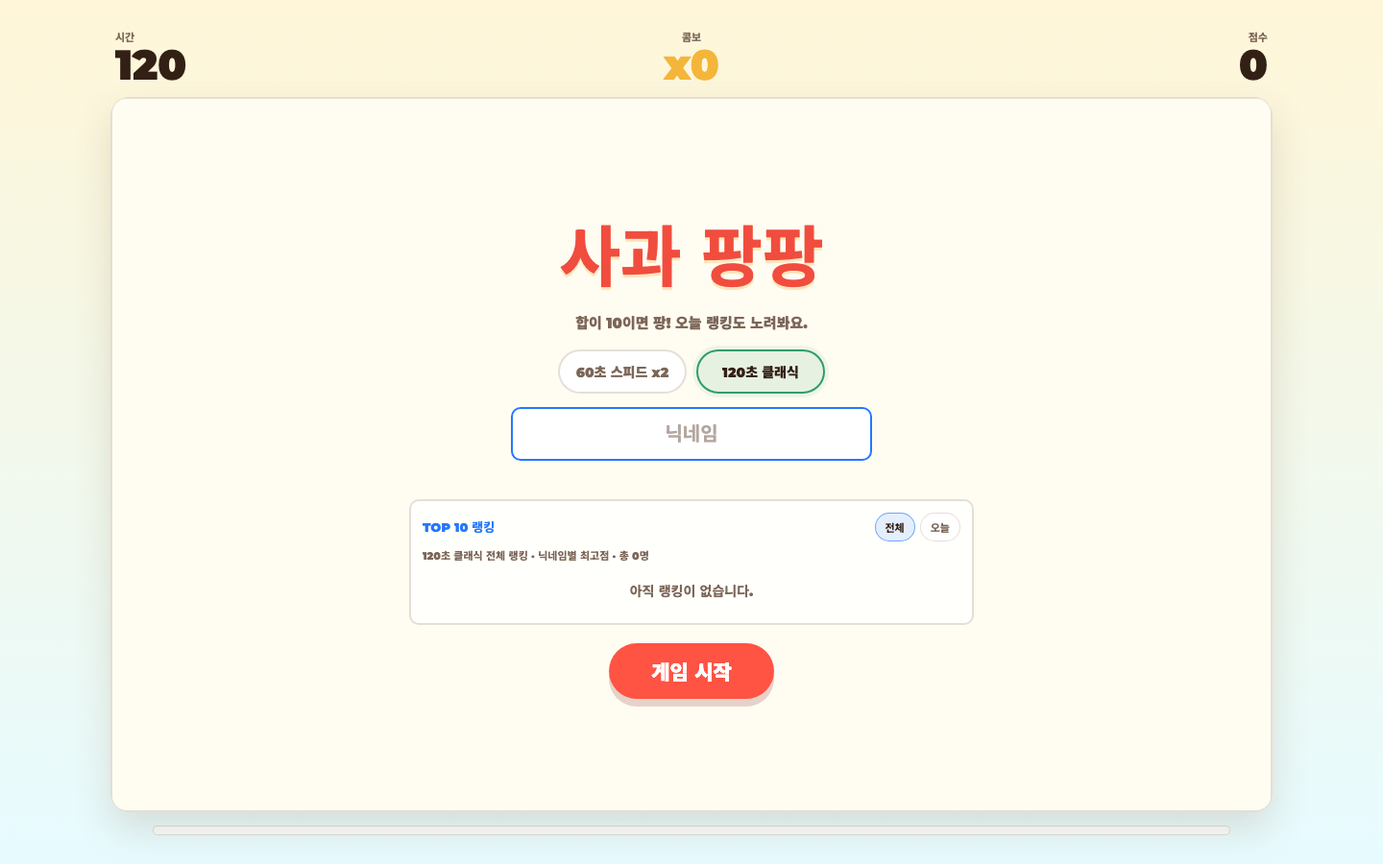
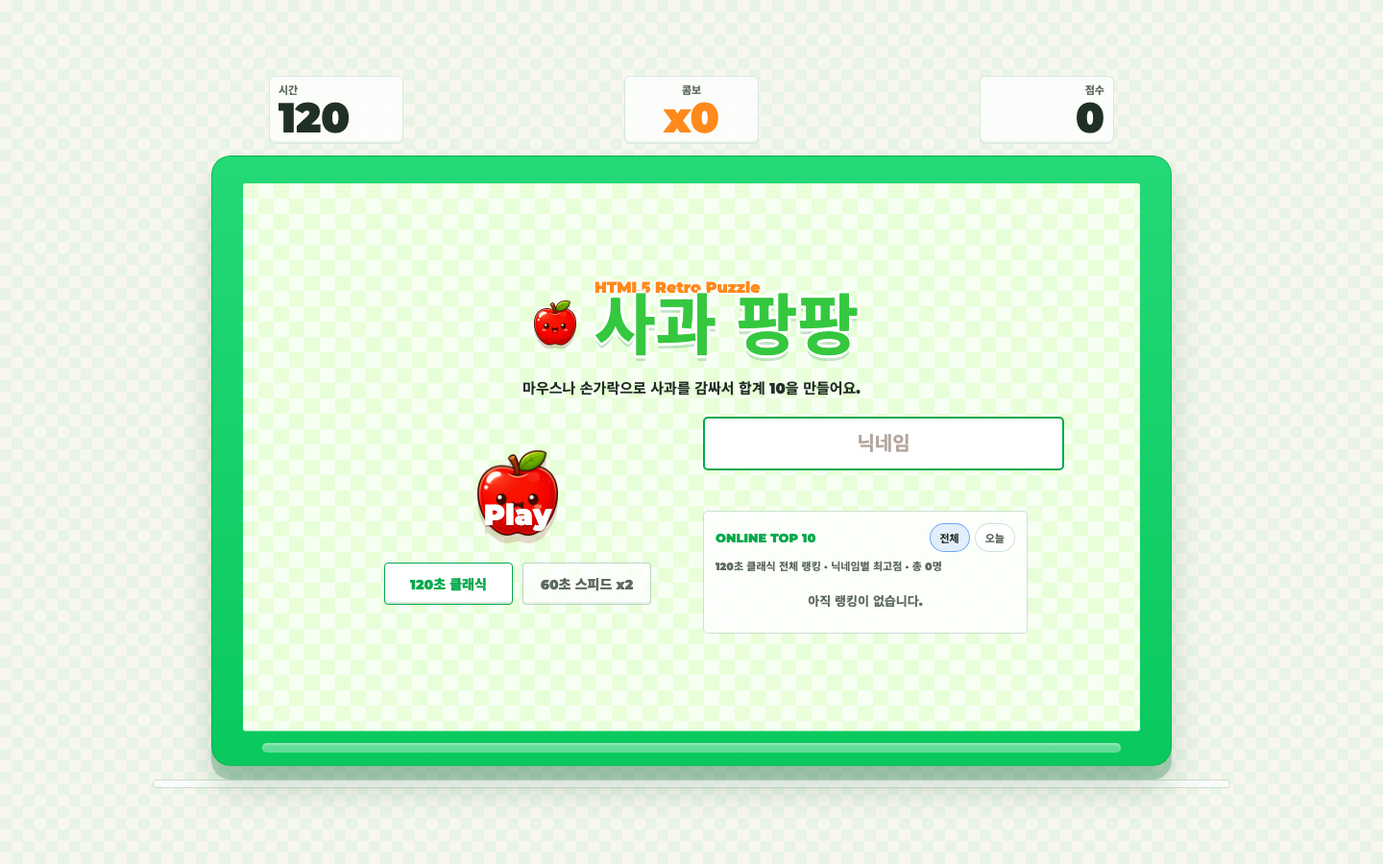
refactor: tune UI toward retro fruit box style

diff --git a/index.html b/index.html
@@ -12,24 +12,37 @@
         @import url('https://fonts.googleapis.com/css2?family=Montserrat:wght@900&family=Noto+Sans+KR:wght@700;900&display=swap');
 
         :root {
-            --bg: #fff6d8;
-            --ink: #332015;
-            --muted: #7c6658;
-            --panel: rgba(255, 252, 241, 0.88);
-            --apple: #f04d3f;
-            --leaf: #2f9d67;
-            --accent: #2477ff;
-            --gold: #f4b63a;
-            --line: rgba(94, 57, 24, 0.16);
+            --bg: #f7f7ef;
+            --frame: #09c95d;
+            --frame-dark: #05a94d;
+            --frame-light: #3ee781;
+            --board: #efffe6;
+            --board-alt: #d8f7c7;
+            --ink: #203024;
+            --muted: #5d6b5f;
+            --apple: #ff3f1f;
+            --apple-dark: #c92b16;
+            --leaf: #1fa84f;
+            --accent: #ff8a1c;
+            --gold: #ffd744;
+            --line: rgba(5, 106, 42, 0.2);
+            --shadow: 0 14px 0 rgba(0, 111, 47, 0.25), 0 24px 34px rgba(13, 74, 31, 0.18);
         }
         body {
             margin: 0; background: var(--bg); color: var(--ink);
             font-family: 'Montserrat', 'Noto Sans KR', sans-serif;
             display: flex; align-items: center; justify-content: center;
             min-height: 100svh; width: 100vw; overflow: hidden; user-select: none; touch-action: manipulation;
-            background: linear-gradient(180deg, #fff6d8 0%, #e7fbff 100%);
+            background:
+                linear-gradient(45deg, rgba(9,201,93,0.06) 25%, transparent 25%),
+                linear-gradient(-45deg, rgba(9,201,93,0.06) 25%, transparent 25%),
+                linear-gradient(45deg, transparent 75%, rgba(9,201,93,0.06) 75%),
+                linear-gradient(-45deg, transparent 75%, rgba(9,201,93,0.06) 75%),
+                var(--bg);
+            background-position: 0 0, 0 12px, 12px -12px, -12px 0;
+            background-size: 24px 24px;
         }
-        body.fevering { background: linear-gradient(180deg, #fff0b8 0%, #ffdf91 100%); }
+        body.fevering { background-color: #fff5c4; }
 
         /* 휴대폰 세로 화면에서는 가로 모드 전환을 안내한다. */
         #rotate-notice {
@@ -46,44 +59,79 @@
         .rotate-copy { color: var(--muted); font-size: 13px; line-height: 1.5; margin: 0; }
         @keyframes rotate { 0%, 100% { transform: rotate(0deg); } 50% { transform: rotate(-90deg); } }
 
-        #game-container { position: relative; display: flex; flex-direction: column; align-items: center; width: min(96vw, 1280px); padding: 12px 0; }
+        #game-container { position: relative; display: flex; flex-direction: column; align-items: center; width: min(96vw, 980px); padding: 12px 0; }
 
         /* UI */
-        #header { width: 100%; display: flex; justify-content: space-between; align-items: flex-end; margin-bottom: 10px; }
-        .stat { display: flex; flex-direction: column; min-width: 90px; }
+        #header { width: min(100%, 900px); display: flex; justify-content: space-between; align-items: flex-end; margin-bottom: 8px; padding: 0 10px; box-sizing: border-box; }
+        .stat { display: flex; flex-direction: column; min-width: 90px; background: rgba(255,255,255,0.78); border: 1px solid rgba(5,106,42,0.14); border-radius: 6px; padding: 5px 9px; box-shadow: inset 0 -2px 0 rgba(5,106,42,0.08); }
         .stat.center { align-items: center; }
         .stat.right { align-items: flex-end; }
-        .stat-label { font-size: 10px; color: var(--muted); letter-spacing: 0; }
-        .stat-value { font-size: clamp(24px, 4vw, 34px); font-weight: 900; line-height: 1; }
-        #v-combo { color: var(--gold); }
+        .stat-label { font-size: 9px; color: var(--muted); letter-spacing: 0; }
+        .stat-value { font-size: clamp(22px, 4vw, 32px); font-weight: 900; line-height: 1; color: var(--ink); }
+        #v-combo { color: var(--accent); }
 
-        #stage-wrap { position: relative; background: #fffdf6; border-radius: 18px; padding: 5px; border: 2px solid var(--line); box-shadow: 0 18px 40px rgba(104, 72, 28, 0.16); transition: border-color 0.2s, box-shadow 0.2s; }
-        #stage-wrap.fevering { border-color: rgba(244,182,58,0.88); box-shadow: 0 0 0 5px rgba(244,182,58,0.16), 0 18px 40px rgba(104,72,28,0.16); }
+        #stage-wrap {
+            --stage-pad-top: 28px;
+            --stage-pad-x: 32px;
+            --stage-pad-bottom: 36px;
+            position: relative; background: linear-gradient(#24d977, var(--frame));
+            border-radius: 22px; padding: var(--stage-pad-top) var(--stage-pad-x) var(--stage-pad-bottom);
+            border: 1px solid rgba(0,95,38,0.24); box-shadow: var(--shadow);
+            transition: filter 0.2s, box-shadow 0.2s; overflow: hidden;
+        }
+        #stage-wrap::after {
+            content: ""; position: absolute; left: 52px; right: 52px; bottom: 13px; height: 10px;
+            border-radius: 999px; background: rgba(255,255,255,0.36); box-shadow: inset 0 2px 2px rgba(255,255,255,0.35);
+            pointer-events: none;
+        }
+        #stage-wrap.fevering { filter: saturate(1.15); box-shadow: 0 0 0 5px rgba(255,215,68,0.45), var(--shadow); }
         #stage-wrap.hit { animation: hit-pulse 0.28s ease-out; }
         #stage-wrap.miss { animation: miss-shake 0.18s ease-out; }
-        canvas { display: block; border-radius: 12px; cursor: crosshair; width: min(100%, 1120px); max-width: 100%; max-height: min(76svh, 720px); height: auto; touch-action: none; }
+        canvas { display: block; border-radius: 3px; cursor: crosshair; width: min(100%, 900px); max-width: 100%; max-height: min(73svh, 620px); height: auto; touch-action: none; box-shadow: inset 0 0 0 2px rgba(0,120,50,0.18), 0 1px 0 rgba(255,255,255,0.45); }
         @keyframes hit-pulse { 0% { transform: scale(1); } 45% { transform: scale(1.008); } 100% { transform: scale(1); } }
         @keyframes miss-shake { 0%, 100% { transform: translateX(0); } 30% { transform: translateX(-4px); } 65% { transform: translateX(4px); } }
 
         /* 오버레이 */
         .overlay {
-            position: absolute; top: 0; left: 0; width: 100%; height: 100%;
-            background: rgba(255, 252, 241, 0.95); backdrop-filter: blur(18px);
+            position: absolute; top: var(--stage-pad-top); left: var(--stage-pad-x); right: var(--stage-pad-x); bottom: var(--stage-pad-bottom); width: auto; height: auto;
+            background:
+                linear-gradient(45deg, rgba(255,255,255,0.64) 25%, transparent 25%),
+                linear-gradient(-45deg, rgba(255,255,255,0.64) 25%, transparent 25%),
+                linear-gradient(45deg, transparent 75%, rgba(255,255,255,0.64) 75%),
+                linear-gradient(-45deg, transparent 75%, rgba(255,255,255,0.64) 75%),
+                rgba(232, 255, 217, 0.96);
+            background-position: 0 0, 0 16px, 16px -16px, -16px 0;
+            background-size: 32px 32px;
             display: flex; flex-direction: column; align-items: center; justify-content: center;
-            z-index: 100; border-radius: 15px; text-align: center; padding: 18px; box-sizing: border-box;
+            z-index: 100; border-radius: 3px; text-align: center; padding: 32px; box-sizing: border-box;
         }
         .hidden { display: none !important; }
 
-        h1 { font-size: clamp(34px, 6vw, 58px); margin: 0 0 10px 0; color: var(--apple); text-shadow: 0 3px 0 rgba(255, 190, 83, 0.35); }
-        .tagline { margin: 0 0 18px; color: var(--muted); font-size: 13px; font-weight: 900; }
-        .mode-picker { display: flex; gap: 8px; margin: 0 0 12px; }
-        .mode-btn { min-width: 112px; padding: 9px 12px; border: 2px solid var(--line); border-radius: 999px; background: #fff; color: var(--muted); font-family: inherit; font-weight: 900; cursor: pointer; }
-        .mode-btn.active { border-color: var(--leaf); background: rgba(47,157,103,0.12); color: var(--ink); box-shadow: 0 0 0 4px rgba(47,157,103,0.08); }
-        input { width: min(72vw, 260px); background: #fff; border: 2px solid var(--accent); color: var(--ink); padding: 12px 14px; border-radius: 10px; font-size: 18px; text-align: center; outline: none; margin-bottom: 12px; font-family: inherit; text-transform: uppercase; }
+        .start-layout { width: min(100%, 700px); display: grid; grid-template-columns: minmax(190px, 1fr) minmax(220px, 1fr); align-items: center; gap: 24px; }
+        .brand { display: inline-grid; grid-template-columns: 64px auto; align-items: center; gap: 9px; margin-bottom: 12px; }
+        .brand img { width: 64px; height: 64px; object-fit: contain; filter: drop-shadow(0 4px 0 rgba(88,32,12,0.18)); }
+        h1 { font-size: clamp(42px, 6vw, 72px); margin: 0; color: #35c83f; line-height: 0.9; text-shadow: -3px 0 #fff, 0 3px #fff, 3px 0 #fff, 0 -3px #fff, 0 6px 0 rgba(0,120,46,0.2); }
+        .brand-kicker { display: block; color: var(--accent); font-size: 16px; line-height: 1; text-align: left; text-shadow: -2px 0 #fff, 0 2px #fff, 2px 0 #fff, 0 -2px #fff; }
+        .tagline { margin: 0 0 12px; color: var(--ink); font-size: 13px; font-weight: 700; line-height: 1.45; }
+        .start-actions { display: flex; flex-direction: column; align-items: center; gap: 10px; }
+        .apple-play {
+            width: 150px; height: 122px; border: 0; padding: 0; margin: 4px 0 0; background: transparent;
+            position: relative; cursor: pointer; font-family: inherit; color: #fff; font-weight: 900; font-size: 30px;
+            filter: drop-shadow(0 8px 0 rgba(126,43,22,0.18));
+        }
+        .apple-play img { position: absolute; inset: 0; width: 100%; height: 100%; object-fit: contain; }
+        .apple-play span { position: relative; z-index: 1; display: block; padding-top: 43px; text-shadow: 0 2px 0 rgba(90,20,8,0.28); }
+        .apple-play:hover { transform: translateY(-2px); }
+        .apple-play:active { transform: translateY(3px); filter: drop-shadow(0 4px 0 rgba(126,43,22,0.18)); }
+        .mode-picker { display: flex; flex-wrap: wrap; justify-content: center; gap: 7px; margin: 0; }
+        .mode-btn { min-width: 112px; padding: 7px 11px; border: 1px solid rgba(5,106,42,0.28); border-radius: 4px; background: rgba(255,255,255,0.75); color: var(--muted); font-family: inherit; font-weight: 900; cursor: pointer; box-shadow: inset 0 -2px 0 rgba(5,106,42,0.08); }
+        .mode-btn.active { border-color: var(--frame-dark); background: #fff; color: var(--frame-dark); box-shadow: inset 0 -2px 0 rgba(5,106,42,0.16); }
+        .settings-row { display: flex; flex-direction: column; align-items: stretch; gap: 8px; }
+        input { width: min(70vw, 240px); background: #fff; border: 2px solid var(--frame-dark); color: var(--ink); padding: 10px 12px; border-radius: 5px; font-size: 17px; text-align: center; outline: none; font-family: inherit; text-transform: uppercase; box-shadow: inset 0 2px 0 rgba(0,0,0,0.04); }
         input::placeholder { color: rgba(124,102,88,0.58); }
-        input:focus { box-shadow: 0 0 0 4px rgba(36,119,255,0.14); }
+        input:focus { box-shadow: 0 0 0 3px rgba(255,138,28,0.24); border-color: var(--accent); }
         input, button, #rank-container, .overlay { touch-action: manipulation; }
-        .nick-help, .save-state, .result-detail { color: var(--muted); font-size: 12px; min-height: 18px; margin-bottom: 10px; }
+        .nick-help, .save-state, .result-detail { color: var(--muted); font-size: 12px; min-height: 18px; margin-bottom: 8px; }
         .result-detail { color: var(--ink); }
         .challenge-banner { width: min(86%, 430px); margin: 0 0 12px; padding: 10px 12px; border-radius: 10px; background: rgba(244,182,58,0.18); border: 1px solid rgba(244,182,58,0.46); color: var(--ink); font-size: 12px; line-height: 1.45; }
         .challenge-banner strong { color: var(--gold); }
@@ -95,14 +143,14 @@
         .result-chip span { display: block; color: var(--muted); font-size: 9px; }
         .result-chip strong { display: block; margin-top: 3px; font-size: 14px; color: var(--ink); }
         
-        .btn { padding: 12px 35px; font-size: 18px; font-weight: 900; background: var(--apple); color: white; border: none; border-radius: 50px; cursor: pointer; margin: 5px; font-family: inherit; transition: transform 0.15s, filter 0.15s; box-shadow: 0 8px 0 rgba(122, 39, 28, 0.2); }
+        .btn { padding: 10px 26px; font-size: 17px; font-weight: 900; background: linear-gradient(#ff6a45, var(--apple)); color: white; border: 1px solid rgba(122,39,28,0.25); border-radius: 5px; cursor: pointer; margin: 4px; font-family: inherit; transition: transform 0.15s, filter 0.15s; box-shadow: 0 5px 0 rgba(122, 39, 28, 0.24); }
         .btn:hover { transform: translateY(-1px); filter: brightness(1.08); }
-        .btn.share { background: var(--leaf); color: #fff; box-shadow-color: rgba(34, 104, 67, 0.22); }
+        .btn.share { background: linear-gradient(#38d976, var(--leaf)); color: #fff; box-shadow-color: rgba(34, 104, 67, 0.22); }
 
         /* 랭킹 리스트 */
-        #rank-container { width: min(86%, 430px); max-height: min(34svh, 240px); overflow-y: auto; background: rgba(255,255,255,0.72); border: 2px solid var(--line); border-radius: 10px; padding: 10px; margin-bottom: 15px; font-size: 14px; }
+        #rank-container { width: 100%; max-height: min(34svh, 214px); overflow-y: auto; background: rgba(255,255,255,0.82); border: 1px solid var(--line); border-radius: 5px; padding: 9px; font-size: 13px; box-sizing: border-box; }
         .rank-head { display: flex; align-items: center; justify-content: space-between; gap: 8px; margin-bottom: 8px; }
-        .rank-title { color: var(--accent); font-size: 12px; }
+        .rank-title { color: var(--frame-dark); font-size: 12px; }
         .rank-tabs { display: flex; gap: 5px; }
         .rank-tab { border: 1px solid var(--line); border-radius: 999px; background: #fff; color: var(--muted); padding: 5px 9px; font: inherit; font-size: 10px; cursor: pointer; }
         .rank-tab.active { background: rgba(36,119,255,0.12); border-color: rgba(36,119,255,0.62); color: var(--ink); }
@@ -117,27 +165,27 @@
         #toast { position: fixed; left: 50%; bottom: 24px; transform: translate(-50%, 18px); z-index: 10000; min-width: min(88vw, 320px); max-width: 90vw; padding: 12px 16px; border-radius: 999px; background: rgba(47, 157, 103, 0.94); color: #fff; font-size: 13px; font-weight: 900; text-align: center; opacity: 0; pointer-events: none; transition: opacity 0.18s, transform 0.18s; box-shadow: 0 14px 34px rgba(34,104,67,0.22); }
         #toast.show { opacity: 1; transform: translate(-50%, 0); }
 
-        #fever-bar { width: 90%; height: 8px; background: rgba(255,255,255,0.72); border: 1px solid var(--line); border-radius: 10px; margin-top: 15px; overflow: hidden; }
-        #fever-fill { width: 0%; height: 100%; background: linear-gradient(90deg, #f04d3f, #f4b63a, #2f9d67); transition: width 0.3s; }
+        #fever-bar { width: min(90%, 850px); height: 7px; background: rgba(255,255,255,0.7); border: 1px solid var(--line); border-radius: 999px; margin-top: 20px; overflow: hidden; }
+        #fever-fill { width: 0%; height: 100%; background: linear-gradient(90deg, #ff3f1f, #ffd744, #09c95d); transition: width 0.3s; }
         @media (min-width: 1100px) and (pointer: fine) {
             body { align-items: center; }
             #game-container { width: min(94vw, 1320px); padding: 16px 0; }
-            #header { width: min(100%, 1200px); margin-bottom: 12px; }
+            #header { width: min(100%, 900px); margin-bottom: 12px; }
             .stat { min-width: 120px; }
             .stat-label { font-size: 11px; }
             .stat-value { font-size: clamp(34px, 3vw, 46px); }
-            #stage-wrap { padding: 6px; border-radius: 20px; }
+            #stage-wrap { border-radius: 20px; }
             .overlay { padding: 32px; }
             h1 { font-size: clamp(54px, 4.8vw, 78px); margin-bottom: 12px; }
             .tagline { font-size: 15px; margin-bottom: 18px; }
             .mode-picker { gap: 10px; margin-bottom: 14px; }
             .mode-btn { min-width: 134px; padding: 11px 16px; font-size: 14px; }
             input { width: min(32vw, 340px); padding: 14px 16px; font-size: 20px; }
-            #rank-container { width: min(62%, 560px); max-height: min(30svh, 260px); padding: 12px; }
+            #rank-container { width: 100%; max-height: min(30svh, 260px); padding: 12px; }
             .rank-title { font-size: 13px; }
             .rank-tab { font-size: 11px; padding: 6px 10px; }
             .rank-meta { font-size: 11px; }
-            .btn { padding: 14px 44px; font-size: 21px; }
+            .btn { padding: 12px 34px; font-size: 19px; }
             .result-card { width: min(60%, 580px); padding: 22px; }
             #fever-bar { width: min(90vw, 1120px); margin-top: 14px; }
         }
@@ -148,11 +196,17 @@
             .stat { min-width: 64px; }
             .stat-label { font-size: 8px; }
             .stat-value { font-size: clamp(24px, 9dvh, 42px); }
-            #stage-wrap { padding: 3px; border-radius: 12px; }
+            #stage-wrap { --stage-pad-top: 4px; --stage-pad-x: 4px; --stage-pad-bottom: 18px; border-radius: 12px; }
             canvas { max-width: none; max-height: none; border-radius: 9px; }
             #fever-bar { width: min(94vw, 934px); height: 6px; margin-top: 5px; }
             .overlay { padding: 12px; }
             h1 { font-size: clamp(30px, 8dvh, 48px); }
+            .brand { grid-template-columns: 46px auto; margin-bottom: 8px; }
+            .brand img { width: 46px; height: 46px; }
+            .brand-kicker { font-size: 11px; }
+            .start-layout { grid-template-columns: 160px minmax(220px, 1fr); gap: 14px; }
+            .apple-play { width: 108px; height: 90px; font-size: 22px; }
+            .apple-play span { padding-top: 31px; }
             .tagline { margin-bottom: 10px; font-size: 11px; }
             .mode-picker { margin-bottom: 8px; }
             .mode-btn { min-width: 100px; padding: 8px 10px; font-size: 12px; }
@@ -173,6 +227,10 @@
             .stat { min-width: 70px; }
             .overlay { justify-content: flex-start; padding-top: 24px; overflow-y: auto; }
             h1 { font-size: 34px; }
+            .brand { grid-template-columns: 44px auto; }
+            .brand img { width: 44px; height: 44px; }
+            .brand-kicker { font-size: 10px; }
+            .start-layout { grid-template-columns: 1fr; gap: 12px; }
             #rank-container { width: 92%; }
         }
         @media (orientation: portrait) and (max-width: 720px) {
@@ -203,28 +261,45 @@
         <canvas id="stage"></canvas>
 
         <div id="screen-start" class="overlay">
-            <h1>사과 팡팡</h1>
-            <p class="tagline">합이 10이면 팡! 오늘 랭킹도 노려봐요.</p>
-            <div id="challenge-banner" class="challenge-banner hidden"></div>
-            <div class="mode-picker" aria-label="게임 모드">
-                <button type="button" id="mode-rush" class="mode-btn" onclick="Game.setMode('rush')">60초 스피드 x2</button>
-                <button type="button" id="mode-classic" class="mode-btn" onclick="Game.setMode('classic')">120초 클래식</button>
+            <div class="brand" aria-label="사과 팡팡">
+                <img src="assets/apple-mascot.png" alt="" aria-hidden="true">
+                <div>
+                    <span class="brand-kicker">HTML5 Retro Puzzle</span>
+                    <h1>사과 팡팡</h1>
+                </div>
             </div>
-            <input type="text" id="nick-input" placeholder="닉네임" maxlength="12" autocomplete="off" spellcheck="false">
-            <div id="nick-help" class="nick-help"></div>
-            <div id="rank-container">
-                <div class="rank-head">
-                    <div class="rank-title">TOP 10 랭킹</div>
-                    <div class="rank-tabs" aria-label="랭킹 탭">
-                        <button type="button" id="rank-all" class="rank-tab active" onclick="Game.setRankMode('all')">전체</button>
-                        <button type="button" id="rank-today" class="rank-tab" onclick="Game.setRankMode('today')">오늘</button>
+            <p class="tagline">마우스나 손가락으로 사과를 감싸서 합계 10을 만들어요.</p>
+            <div id="challenge-banner" class="challenge-banner hidden"></div>
+
+            <div class="start-layout">
+                <div class="start-actions">
+                    <button type="button" class="apple-play" onclick="Game.start()" aria-label="게임 시작">
+                        <img src="assets/apple-mascot.png" alt="" aria-hidden="true">
+                        <span>Play</span>
+                    </button>
+                    <div class="mode-picker" aria-label="게임 모드">
+                        <button type="button" id="mode-classic" class="mode-btn" onclick="Game.setMode('classic')">120초 클래식</button>
+                        <button type="button" id="mode-rush" class="mode-btn" onclick="Game.setMode('rush')">60초 스피드 x2</button>
                     </div>
                 </div>
-                <p id="rank-meta" class="rank-meta">닉네임별 최고점만 저장됩니다.</p>
-                <div id="my-rank" class="my-rank hidden"></div>
-                <div id="rank-list">로딩 중...</div>
+
+                <div class="settings-row">
+                    <input type="text" id="nick-input" placeholder="닉네임" maxlength="12" autocomplete="off" spellcheck="false">
+                    <div id="nick-help" class="nick-help"></div>
+                    <div id="rank-container">
+                        <div class="rank-head">
+                            <div class="rank-title">ONLINE TOP 10</div>
+                            <div class="rank-tabs" aria-label="랭킹 탭">
+                                <button type="button" id="rank-all" class="rank-tab active" onclick="Game.setRankMode('all')">전체</button>
+                                <button type="button" id="rank-today" class="rank-tab" onclick="Game.setRankMode('today')">오늘</button>
+                            </div>
+                        </div>
+                        <p id="rank-meta" class="rank-meta">닉네임별 최고점만 저장됩니다.</p>
+                        <div id="my-rank" class="my-rank hidden"></div>
+                        <div id="rank-list">로딩 중...</div>
+                    </div>
+                </div>
             </div>
-            <button class="btn" onclick="Game.start()">게임 시작</button>
         </div>
 
         <div id="screen-result" class="overlay hidden">
@@ -504,7 +579,7 @@ const Game = {
                 const headerH = header ? header.offsetHeight : 54;
                 const availableW = Math.max(760, Math.min(1220, viewport.width - 80));
                 const availableH = Math.max(460, viewport.height - headerH - 112);
-                const scale = Math.min(availableW / baseW, availableH / baseH, 1.28);
+                const scale = Math.min(availableW / baseW, availableH / baseH, 1);
                 this.canvas.style.width = `${Math.floor(baseW * scale)}px`;
                 this.canvas.style.maxHeight = "none";
                 return;
@@ -932,9 +1007,15 @@ const Game = {
         const boardW = COLS * CELL + PAD * 2;
         const boardH = ROWS * CELL + PAD * 2;
         this.ctx.save();
-        this.ctx.fillStyle = '#fffdf6';
+        this.ctx.fillStyle = '#efffe6';
         this.ctx.fillRect(0, 0, boardW, boardH);
-        this.ctx.strokeStyle = 'rgba(94, 57, 24, 0.08)';
+        for(let r = 0; r < ROWS; r++) {
+            for(let c = 0; c < COLS; c++) {
+                this.ctx.fillStyle = (r + c) % 2 ? '#efffe6' : '#d8f7c7';
+                this.ctx.fillRect(PAD + c * CELL, PAD + r * CELL, CELL, CELL);
+            }
+        }
+        this.ctx.strokeStyle = 'rgba(5, 106, 42, 0.18)';
         this.ctx.lineWidth = 1;
         for(let c = 0; c <= COLS; c++) {
             const x = PAD + c * CELL;
@@ -973,29 +1054,48 @@ const Game = {
                         this.ctx.shadowColor = '#f4b63a';
                         this.ctx.shadowBlur = 18;
                     }
+                    this.ctx.shadowColor = fevering ? '#f4b63a' : 'rgba(92,30,12,0.22)';
+                    this.ctx.shadowBlur = fevering ? 18 : 0;
+                    this.ctx.shadowOffsetY = fevering ? 0 : 3;
                     this.ctx.fillStyle = '#7a4b24';
                     this.ctx.fillRect(-2, -23, 4, 9);
                     this.ctx.fillStyle = '#2f9d67';
                     this.ctx.beginPath();
                     this.ctx.ellipse(8, -22, 8, 4, -0.65, 0, Math.PI * 2);
                     this.ctx.fill();
-                    this.ctx.fillStyle = fevering ? `hsl(${Date.now()/5 % 360}, 82%, 58%)` : '#f04d3f';
+                    const appleFill = this.ctx.createRadialGradient(-8, -10, 5, 3, 4, 22);
+                    appleFill.addColorStop(0, fevering ? '#ffe56b' : '#ff7a4c');
+                    appleFill.addColorStop(0.42, fevering ? `hsl(${Date.now()/5 % 360}, 82%, 58%)` : '#ff3f1f');
+                    appleFill.addColorStop(1, fevering ? '#ff3f1f' : '#c92b16');
+                    this.ctx.fillStyle = appleFill;
                     this.ctx.beginPath(); this.ctx.arc(-6,0,18,0,Math.PI*2); this.ctx.arc(6,0,18,0,Math.PI*2); this.ctx.fill();
+                    this.ctx.shadowColor = 'transparent';
+                    this.ctx.fillStyle = 'rgba(255,255,255,0.72)';
+                    this.ctx.beginPath();
+                    this.ctx.ellipse(-9, -10, 8, 4, -0.55, 0, Math.PI * 2);
+                    this.ctx.fill();
                     this.ctx.fillStyle = 'white'; this.ctx.font = "900 22px Montserrat, 'Noto Sans KR'"; this.ctx.textAlign="center"; this.ctx.textBaseline="middle";
+                    this.ctx.strokeStyle = 'rgba(105,24,10,0.42)';
+                    this.ctx.lineWidth = 3;
+                    this.ctx.strokeText(a.val, 0, 2);
                     this.ctx.fillText(a.val, 0, 2);
                     this.ctx.restore();
                 }
             }
         }
         if(this.dragging) {
-            this.ctx.strokeStyle = '#2477ff'; this.ctx.lineWidth = 2; this.ctx.setLineDash([5,5]);
-            this.ctx.strokeRect(this.mStart.x, this.mStart.y, this.mCurrent.x-this.mStart.x, this.mCurrent.y-this.mStart.y);
             const sel = this.getSel();
+            this.ctx.strokeStyle = sel.sum === 10 ? '#ff3f1f' : '#1fa84f';
+            this.ctx.fillStyle = sel.sum === 10 ? 'rgba(255,63,31,0.12)' : 'rgba(31,168,79,0.08)';
+            this.ctx.lineWidth = sel.sum === 10 ? 3 : 2;
+            this.ctx.setLineDash([5,5]);
+            this.ctx.fillRect(this.mStart.x, this.mStart.y, this.mCurrent.x-this.mStart.x, this.mCurrent.y-this.mStart.y);
+            this.ctx.strokeRect(this.mStart.x, this.mStart.y, this.mCurrent.x-this.mStart.x, this.mCurrent.y-this.mStart.y);
             if(sel.sum > 0) {
                 const isTouch = this.pointerType === "touch" || this.pointerType === "pen";
                 const labelX = isTouch ? this.mCurrent.x : this.mCurrent.x;
                 const labelY = isTouch ? Math.max(32, this.mCurrent.y - 62) : this.mCurrent.y - 20;
-                this.ctx.fillStyle = sel.sum === 10 ? '#f4b63a' : '#332015';
+                this.ctx.fillStyle = sel.sum === 10 ? '#ff3f1f' : '#203024';
                 this.ctx.font = "900 24px Montserrat, 'Noto Sans KR'";
                 this.ctx.textAlign = "center";
                 if(isTouch) {
@@ -1006,7 +1106,7 @@ const Game = {
                     this.ctx.arc(labelX, labelY - 8, 24, 0, Math.PI * 2);
                     this.ctx.fill();
                     this.ctx.restore();
-                    this.ctx.fillStyle = sel.sum === 10 ? '#f4b63a' : '#332015';
+                    this.ctx.fillStyle = sel.sum === 10 ? '#ff3f1f' : '#203024';
                 }
                 this.ctx.fillText(sel.sum, labelX, labelY);
                 if(isTouch) {
